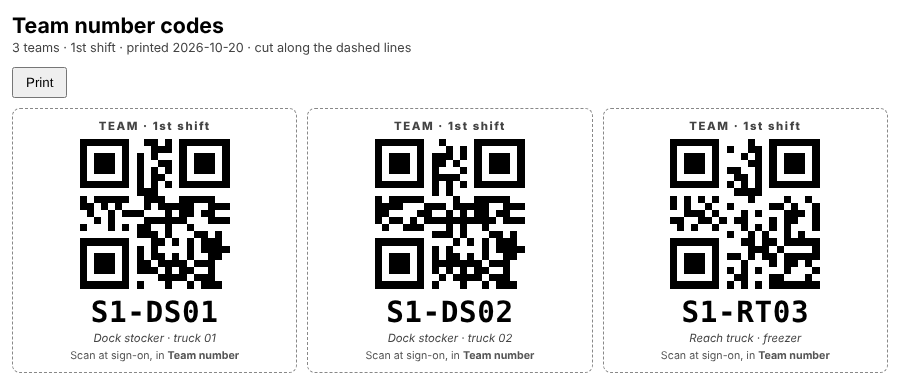
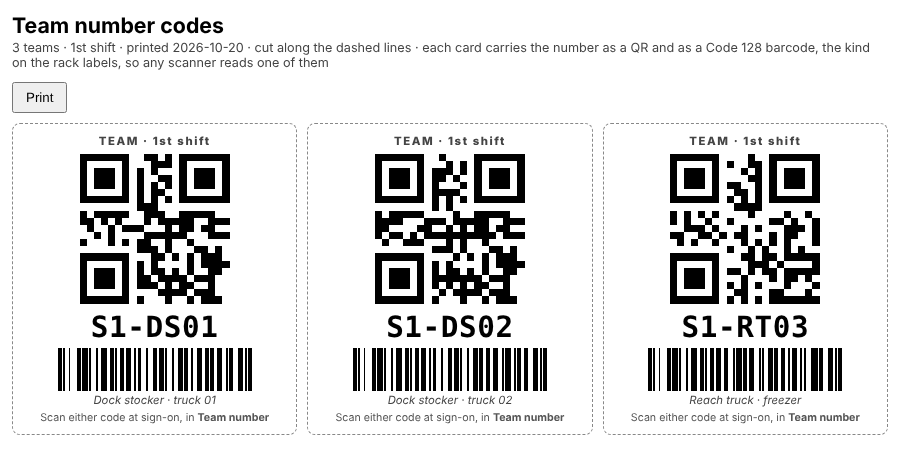
Team cards carry the number as a Code 128 barcode too; the scanner's sign-on screen shows only the cached-list line at its foot
A scanner set up for the rack labels alone reads the barcode as it is;
the QR stays for guns with that decoder on. Change scanner ID, the
scanner's own details and the build line are kept for support but not
shown.

Claude-Session: https://claude.ai/code/session_01LaCZ626Y2oWoWchJeisbmg

diff --git a/public/guide-content.js b/public/guide-content.js
@@ -51,7 +51,7 @@
             { q: 'How do I change what the crew board shows, or how fast it scrolls?', a: 'Settings → Site & systems → Crew board (admins). Pick the shift shown — the one on now, or the 1st or 2nd always — tick what each team’s card carries (people, open seats, notes, aisle and scanning state, last scan and next aisle, which count), and set Scroll by itself with a speed of Slow, Normal or Fast and a pause at each end. Save; the screen picks it up within half a minute.', goto: S('/settings', 'advanced', 'Settings → Site & systems') },
             { q: 'Can I export the teams to compare the shifts?', a: 'Teams & crew → Teams → ⬇ Export the teams (CSV): every team across both shifts, one row a seat, with the shift on every row and the team sheet’s own columns — so it sorts and compares in Excel and uploads back as a team sheet when reworked.', goto: S('/teams', 'crew', 'Teams & crew') },
             { q: 'Is there a training film or slides for a new crew?', a: 'Yes, both, in English and in Spanish, under docs/training: scanner-training-en.mp4 and -es.mp4, a slow captioned film of the whole job on the real scanner with a beep on every scan (about fifteen minutes), and scanner-training-en.pptx and -es.pptx, the same lesson as slides with the narration in the speaker notes and the buttons on one page to print. Play the film, then go through the slides with scanners in hand and the barcode test book.' },
-            { q: 'Can a team scan its number at sign-on instead of typing it?', a: 'Yes. Teams & crew → 🖨 Print team QR codes prints a card per team with its number as a QR code — every team, or pick 1st or 2nd shift in the box beside it. With the cursor in Team number on the gun, scan the card: the number goes in and sign-on moves to the clock-in numbers. The code holds only the team number, so a lost card signs nobody in. Printing needs Downloads on the login.', goto: S('/teams', 'crew', 'Teams & crew') },
+            { q: 'Can a team scan its number at sign-on instead of typing it?', a: 'Yes. Teams & crew → 🖨 Print team QR codes prints a card per team with its number as a QR code — every team, or pick 1st or 2nd shift in the box beside it. With the cursor in Team number on the gun, scan the card: the number goes in and sign-on moves to the clock-in numbers. Each card has the number as a QR and as a Code 128 barcode like the rack labels, so a scanner set up for rack labels alone reads it; to read the QR itself, turn the QR Code decoder on in DataWedge. Either code holds only the team number, so a lost card signs nobody in. Printing needs Downloads on the login.', goto: S('/teams', 'crew', 'Teams & crew') },
             { q: 'Why do some cards show only their heading?', a: 'They are folded: the ones a site sets once and then leaves, like the counting-screen layout, the barcode test book or the site logo. Click the heading (or the ▸) to open one and again to fold it; this computer remembers. A search hit or a Ready for count day link opens the card it takes you to.' },
           ],
         },

diff --git a/src/routes/printing.js b/src/routes/printing.js
@@ -195,8 +195,9 @@ export function teamCodes(teams, { title = 'Team number codes', scope = '' } = {
       <div class="kicker">TEAM${t.shift ? ` · ${esc(shiftWord(t.shift))}` : ''}</div>
       <div class="qr" data-code="${esc(t.name)}"></div>
       <div class="name">${esc(t.name)}</div>
+      <div class="bars" data-bars="${esc(t.name)}">${barcodeSvg(t.name, { module: 0.36, height: 9, quiet: 3, showText: false })}</div>
       ${t.notes ? `<div class="note">${esc(t.notes)}</div>` : ''}
-      <div class="how">Scan at sign-on, in <b>Team number</b></div>
+      <div class="how">Scan either code at sign-on, in <b>Team number</b></div>
     </div>`).join('');
   return `<!doctype html>
 <html lang="en"><head><meta charset="utf-8">
@@ -211,6 +212,8 @@ export function teamCodes(teams, { title = 'Team number codes', scope = '' } = {
   .kicker { font-size: 8.5pt; font-weight: 800; letter-spacing: .14em; color: #444; margin-bottom: 6px; }
   .qr { display: flex; justify-content: center; min-height: 150px; align-items: center; }
   .qr img, .qr canvas { display: block; }
+  .bars { margin: 4px auto 0; max-width: 54mm; }
+  .bars svg { display: block; width: 100%; height: auto; }
   .name { font-size: 22pt; font-weight: 900; letter-spacing: .02em; margin-top: 6px; font-family: ui-monospace, Menlo, Consolas, monospace; word-break: break-all; }
   .note { font-size: 8.5pt; color: #444; margin-top: 2px; font-style: italic; }
   .how { font-size: 8pt; color: #555; margin-top: 4px; }
@@ -219,7 +222,7 @@ export function teamCodes(teams, { title = 'Team number codes', scope = '' } = {
 </style></head>
 <body>
 <h1>${esc(title)}</h1>
-<div class="sub">${teams.length} team${teams.length === 1 ? '' : 's'}${scope ? ` · ${esc(scope)}` : ''} · printed ${esc(localDate())} · cut along the dashed lines</div>
+<div class="sub">${teams.length} team${teams.length === 1 ? '' : 's'}${scope ? ` · ${esc(scope)}` : ''} · printed ${esc(localDate())} · cut along the dashed lines · each card carries the number as a QR and as a Code 128 barcode, the kind on the rack labels, so any scanner reads one of them</div>
 <button class="noprint" onclick="window.print()" style="margin-bottom:10px;padding:6px 12px">Print</button>
 ${teams.length ? `<div class="sheet">${cards}</div>` : '<div class="none">No teams yet — add them under Teams &amp; crew.</div>'}
 <script src="/vendor/qrcode.min.js"></script>

diff --git a/public/index.html b/public/index.html
@@ -104,10 +104,12 @@
     </div>
     <button class="link" id="btnInstall" hidden>Install on this scanner</button>
     <button class="link" id="btnFullScreen" hidden>Hide the browser bar for this shift</button>
-    <button class="link" id="btnChangeDevice">Change scanner ID</button>
-    <div class="muted" id="deviceInfo"></div>
-    <div class="muted" id="screenInfo"></div>
-    <div class="muted" id="buildInfo"></div>
+    <!-- the scanner's own details - its ID, the screen, the build - are kept for support (readable in the page) but not shown:
+         a counter sees only the cached-list line at the foot of the screen -->
+    <button class="link" id="btnChangeDevice" hidden>Change scanner ID</button>
+    <div class="muted" id="deviceInfo" hidden></div>
+    <div class="muted" id="screenInfo" hidden></div>
+    <div class="muted" id="buildInfo" hidden></div>
 
     <div class="feedback" id="signonMsg"></div>
     <div class="spacer"></div>

diff --git a/docs/SOP.md b/docs/SOP.md
@@ -486,7 +486,9 @@ after that the server accepts counts from it and stamps its name on every line.
    - the profile associated with Chrome → **Keystroke output: enabled**
    - **Basic data formatting** → send a suffix: **ENTER** *(or TAB — the app takes
      either as the end of a scan, and neither moves the cursor off the box)*
-   - **Barcode input** → enable the symbologies your labels use.
+   - **Barcode input** → enable the symbologies your labels use — **Code 128** for the rack and
+     pallet labels, and **QR Code** if the crews will scan the QR on the team cards (the cards
+     carry a Code 128 as well, so this one is optional).
 
 **Kiosk mode.** Three levels, strongest last:
 
@@ -1174,9 +1176,12 @@ with the team number as a QR code, three across a letter page, ready to cut out 
 cradle or clip to a lanyard. The box beside the button picks **Every team**, **1st shift** or
 **2nd shift**. At sign-on the counter points the gun at the card with the cursor in **Team
 number**: the gun types the number and moves on to the clock-in numbers, so nobody types
-*S1-DS01* on a keypad in gloves. The number is printed large under the code as well. The code
-holds the team number and nothing else, so a lost card is no risk; print it again whenever teams
-change. Printing needs **Downloads** on the login, and the Log records who printed the cards.
+*S1-DS01* on a keypad in gloves. The number is printed large under the code as well, and under
+that as a **Code 128 barcode** — the kind on the rack labels — so a scanner set up for the rack
+labels alone reads the card as it is. (To read the QR itself, turn the **QR Code** decoder on in
+DataWedge, under *Barcode input → Decoders*; a scanner that beeps at rack labels but not at the
+QR has it off.) Either code holds the team number and nothing else, so a lost card is no risk;
+print the cards again whenever teams change. Printing needs **Downloads** on the login, and the Log records who printed the cards.
 
 ![](images/teams-qr-codes.png)
 

diff --git a/docs/guides/first-full-count.md b/docs/guides/first-full-count.md
@@ -210,8 +210,9 @@ reach truck with a scissor lift reaches A and C–F. Change a rule here if your 
 **before** you plan the aisles.
 
 **Print the team QR codes.** **🖨 Print team QR codes** prints a card per team with its number as a
-QR code. Pick **Every team**, **1st shift** or **2nd shift** in the box beside it first. Cut the cards
-out and give one to each team. At sign-on the counter scans the card instead of typing the number.
+QR code and, under it, the same number as a Code 128 barcode like the rack labels. Pick **Every
+team**, **1st shift** or **2nd shift** in the box beside it first. Cut the cards out and give one to
+each team. At sign-on the counter scans either code instead of typing the number.
 
 **How you know it worked:** each team card shows its people, its shift and its equipment.
 
@@ -246,7 +247,9 @@ device is what signs that scanner in.
 3. Set up **DataWedge** (the Zebra's scanning settings) so a scan arrives as typing:
    - in the profile for Chrome, **Keystroke output: enabled**;
    - **Basic data formatting** → send **ENTER** (or TAB) after each scan;
-   - **Barcode input** → enable the barcode types your labels use (Code 128 for most racking).
+   - **Barcode input** → enable the barcode types your labels use: **Code 128** for the rack and
+     pallet labels, and **QR Code** too if crews will scan the QR on the team cards. The team cards
+     carry a Code 128 as well, so they scan either way.
 
 **How you know it worked:** the scanner shows its own name on the sign-on screen, and its row under
 Scanner setup says when it was last seen.

diff --git a/docs/guides/employees-teams-and-gear.md b/docs/guides/employees-teams-and-gear.md
@@ -130,8 +130,9 @@ a person on two teams, a shift that disagrees with the team's. Fix the file, che
 - **🖨 Print team QR codes** prints a card for each team with its number as a QR code, three
   across a letter page. Pick **Every team**, **1st shift** or **2nd shift** in the box beside
   it first. At sign-on the counter scans the card into **Team number** on the gun instead of
-  typing it; the number is printed large under the code for anyone without a scanner. The QR
-  holds the team number and nothing else, so a lost card signs nobody in. It needs
+  typing it; the number is printed large under the code, and under that as a Code 128 barcode —
+  the kind on the rack labels — so a scanner set up for rack labels alone reads the card. Either
+  code holds the team number and nothing else, so a lost card signs nobody in. It needs
   **Downloads** on the login, and the Log records who printed them.
 
 ![](../images/teams-qr-codes.png)

diff --git a/docs/guides/for-users/employees-teams-and-gear.md b/docs/guides/for-users/employees-teams-and-gear.md
@@ -102,7 +102,8 @@ columns.
   shift on every row, so the shifts compare side by side in Excel.
 - **🖨 Print team QR codes** prints a card per team with its number as a QR code, for every team
   or one shift. At sign-on, scan the card into **Team number** on the gun instead of typing it.
-  The number is printed large under the code too.
+  Each card has the number as a QR and as a barcode like the rack labels, so any scanner reads one
+  of them; the number is printed large as well.
 
 ## 6 — Gear sizes, and the order
 
